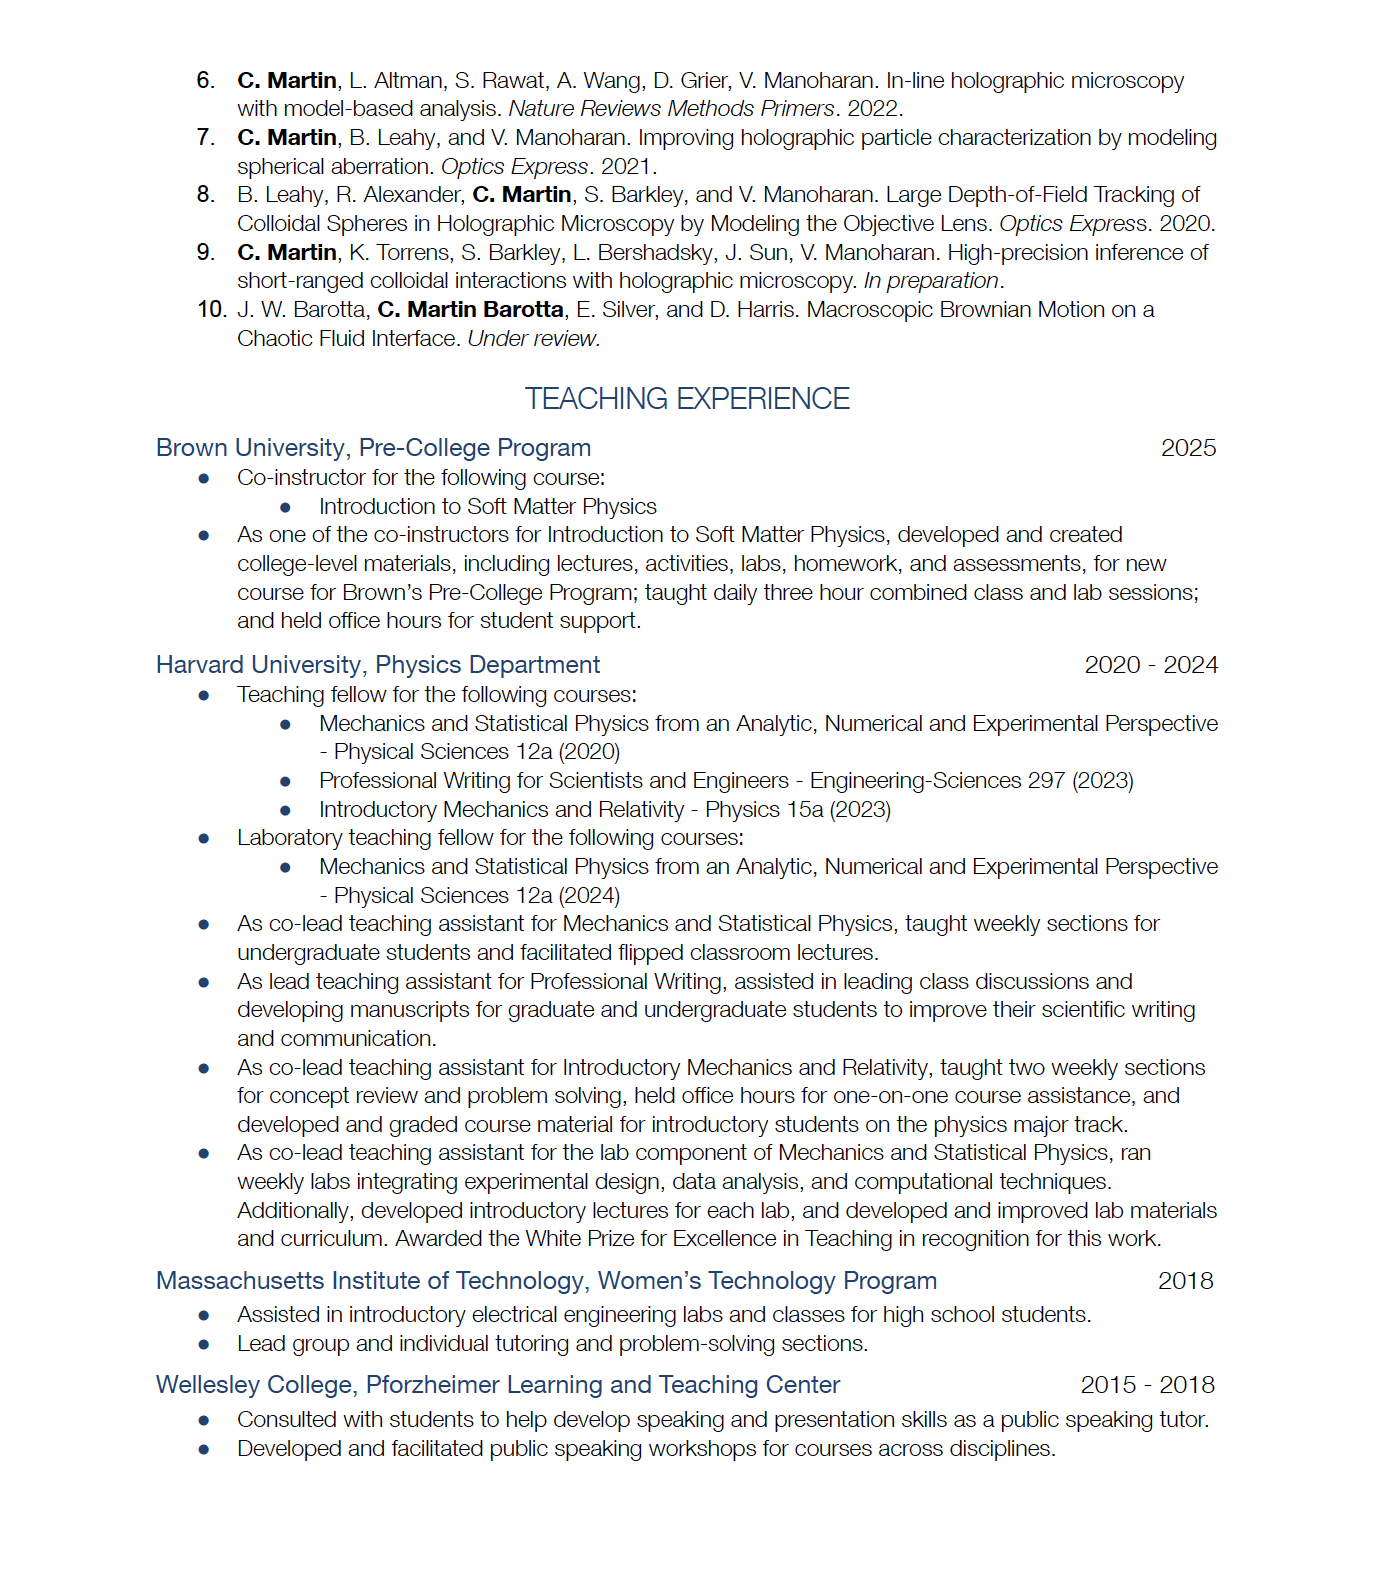
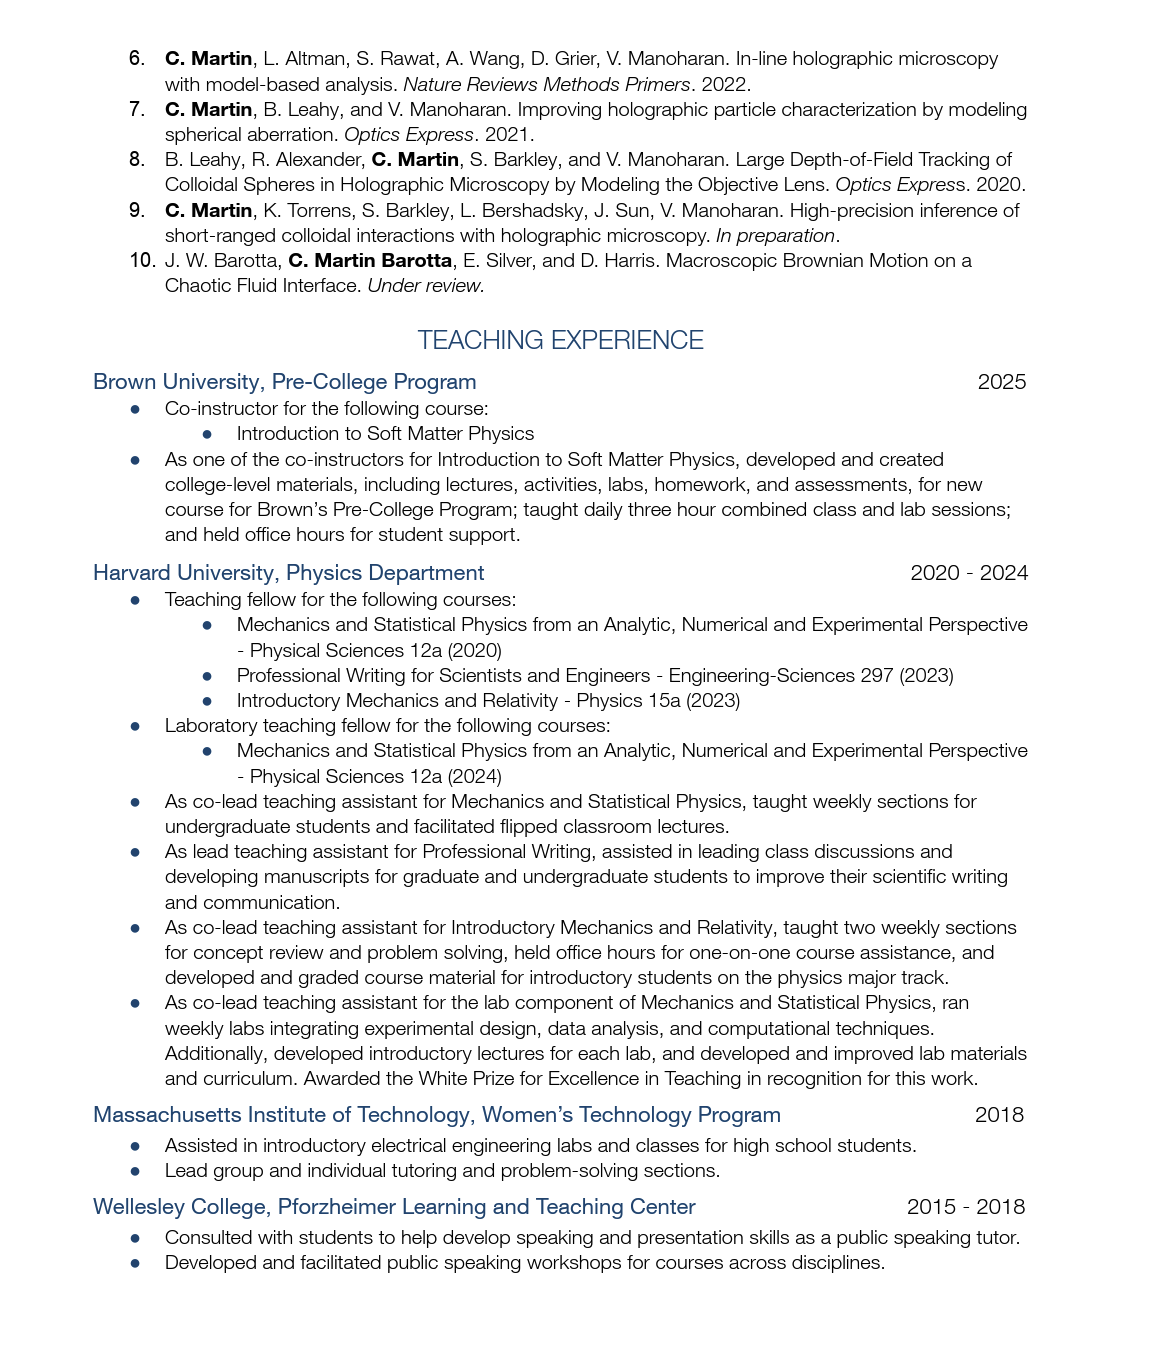
cv update

Changed region(s): [[0.0913, 0.0311, 0.8826, 0.9644], [0.8522, 0.28, 0.8826, 0.3111]]

diff --git a/_pages/publications.md b/_pages/publications.md
@@ -13,7 +13,7 @@ Caroline Martin Barotta and Jack-William Barotta
 
 [Download paper here](http://carolinesmartin.github.io/files/cranberry_arxiv.pdf)
 
-Recommended citation: Caroline M. Barotta and Jack-William Barotta. "The Physics of Cranberry Bogs." In Press at American Journal of Physics.
+Recommended citation: Caroline M. Barotta and Jack-William Barotta. "The Physics of Cranberry Bogs." 4/1/2026. American Journal of Physics, 94, 4. 
 
 ## Inferring interaction potentials from stochastic particle trajectories
 
@@ -31,7 +31,6 @@ Jessica H. Sun, Grace H. Zhang, Abigail Plummer, Caroline Martin, Nabila Tanjeem
 
 Recommended citation: Jessica H. Sun, Grace H. Zhang, Abigail Plummer, Caroline Martin, Nabila Tanjeem, David R. Nelson, and Vinothan N. Manoharan. "Colloidal Crystallization on Cones."  1/3/2025. Physical Review Letters, 134.
 
-
 ## Precise characterization of nanometer-scale systems using interferometric scattering microscopy and Bayesian analysis
 
 Xander M. de Wit, Amelia W. Paine, Caroline Martin, Aaron M. Goldfain, Rees F. Garmann, and Vinothan N. Manoharan
@@ -39,7 +38,6 @@ Xander M. de Wit, Amelia W. Paine, Caroline Martin, Aaron M. Goldfain, Rees F. G
 [Download paper here](http://carolinesmartin.github.io/files/iscat.pdf)
 
 Recommended citation: Xander M. de Wit, Amelia W. Paine, Caroline Martin, Aaron M. Goldfain, Rees F. Garmann, and Vinothan N. Manoharan. “Precise characterization of nanometer-scale systems using interferometric scattering microscopy and Bayesian analysis.” 9/20/2023. Applied Optics, 62, 27.
-
 
 ## WOW STEM: Addressing the STEM gender gap with accessible educational content
 
@@ -49,7 +47,6 @@ Caroline Martin, Madelyn Leembruggen, and Taylor Contreras
 
 Recommended citation: Caroline Martin, Madelyn Leembruggen, and Taylor Contreras. “WOW STEM: Addressing the STEM gender gap with accessible educational content.” 5/15/2023. American Philosophical Society, Women in Science: Achievements and Barriers.
 
-
 ## In-line holographic microscopy with model-based analysis
 
 Caroline Martin, Lauren E. Altman, Siddharth Rawat, Anna Wang, David G. Grier, and Vinothan N. Manoharan
@@ -57,7 +54,6 @@ Caroline Martin, Lauren E. Altman, Siddharth Rawat, Anna Wang, David G. Grier, a
 [Download paper here](http://carolinesmartin.github.io/files/in-line-holographic-microscopy.pdf)
 
 Recommended citation: Caroline Martin, Lauren E. Altman, Siddharth Rawat, Anna Wang, David G. Grier, and Vinothan N. Manoharan. “In-line holographic microscopy with model-based analysis.” 10/22/2022. Nature Reviews Methods Primers, 2, 83.
-
 
 ## What’s for Lunch? A systematic ordering of foods in the Soup-Salad-Sandwich phase space
 
@@ -67,7 +63,6 @@ Madelyn Leembruggen and Caroline Martin
 
 Recommended citation: Madelyn Leembruggen and Caroline Martin. “What’s for Lunch? A systematic ordering of foods in the Soup-Salad-Sandwich phase space.” 4/1/2022. 
 
-
 ## Improving holographic particle characterization by modeling spherical aberration
 
 Caroline Martin, Brian Leahy, and Vinothan N. Manoharan
@@ -75,7 +70,6 @@ Caroline Martin, Brian Leahy, and Vinothan N. Manoharan
 [Download paper here](http://carolinesmartin.github.io/files/spherical-aberration.pdf)
 
 Recommended citation: Caroline Martin, Brian Leahy, and Vinothan N. Manoharan. “Improving holographic particle characterization by modeling spherical aberration.” 2021. Optics Express, 29, 12, Pp. 18212–18223.
-
 
 ## Large depth-of-field tracking of colloidal spheres in holographic microscopy by modeling the objective lens
 

diff --git a/_pages/research.md b/_pages/research.md
@@ -9,7 +9,7 @@ author_profile: true
 </p>
 
 ### Biophysics of giant fused cells
-I'm currently working to understand the mechanobiology of large fused cells (called syncytia) like the syncytiotrophoblast, which is a huge multinuclear cell that protect the fetal-mother barrier in the placenta. With a model system created by fusing MDCK cells, I'm investigating how giant cells maintain their stability and integrity, the large-scale reorganization of their organelles that happens after fusion, and how their biophysical properties differ as a function of size. I use different microscopy techniques for imaging live cells, machine learning image analysis, and physics-based models for tissue mechanics.
+I'm currently working to understand the mechanobiology of large fused cells (called syncytia) like the syncytiotrophoblast, which is a huge multinuclear cell that protect the fetal-mother barrier in the placenta. With a model system of fused MDCK cells, I'm investigating how giant cells maintain their stability and integrity, the large-scale reorganization of their organelles that happens after fusion, and how their biophysical properties differ as a function of size. I use different microscopy techniques for live cell imaging, machine learning image analysis, and physics-based models to understand their behavior.
 
 <br>
 <p align="left" style="float: left; margin-right: 15px;">
